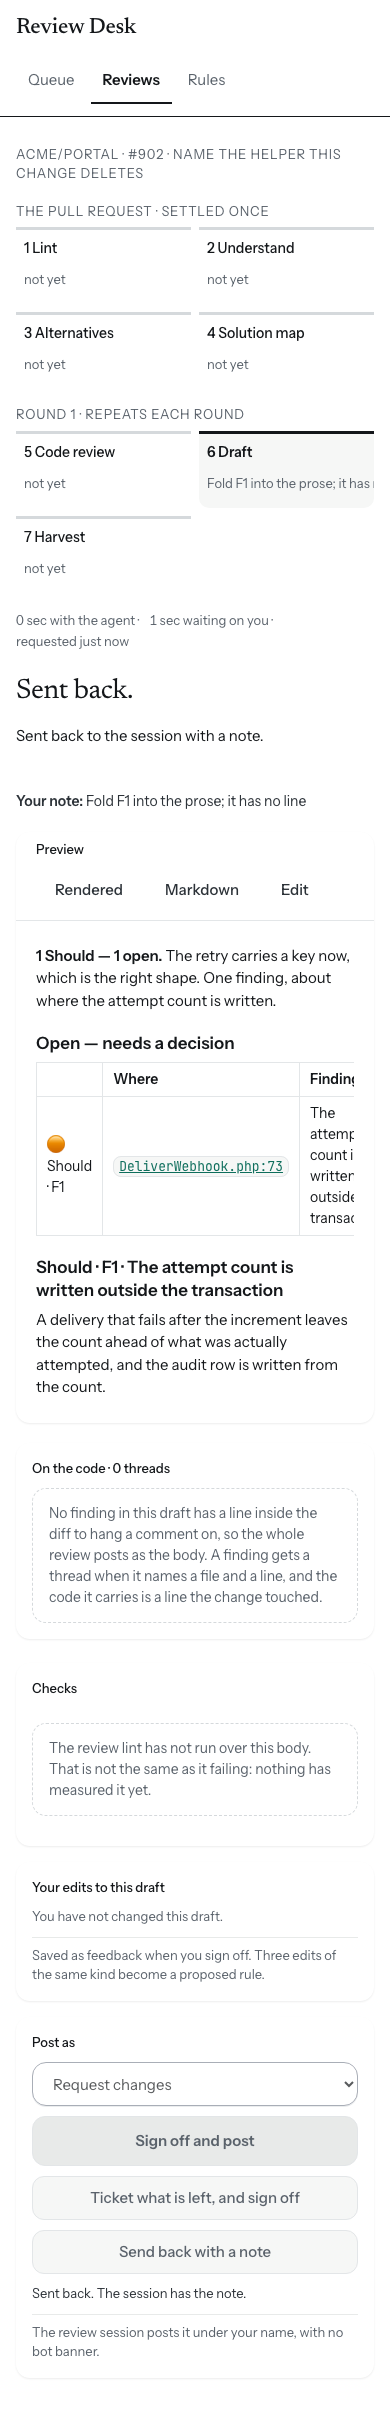
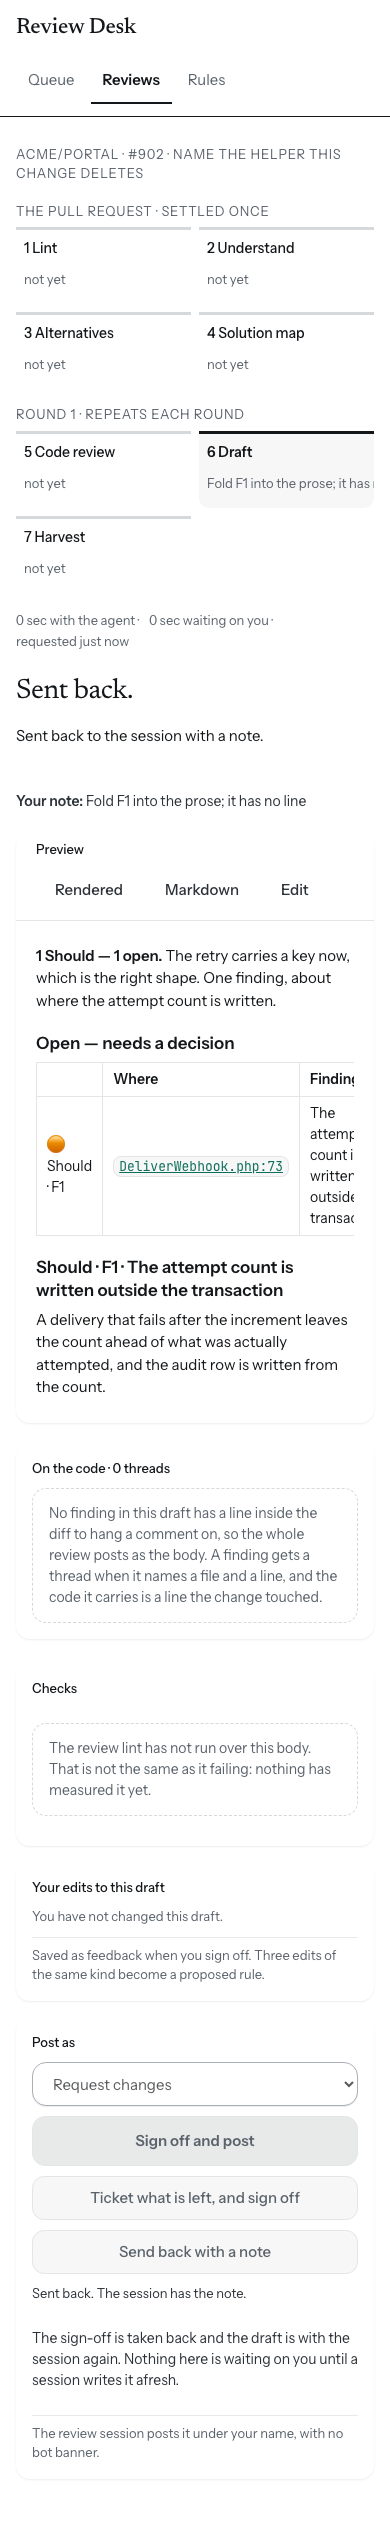
Two from a tenth review, which cleared the root fix [DEV-932]
The pass traced every path on the held conclusion — the navigation, the null
sign-off, the hung read, the write-against-poll orderings — and faulted none
of it. These two are elsewhere.

**The panel claimed to say something only a screen reader was told.** The
component's own state table says that on a take-back it "says the sign-off is
taken back and the draft is with the session", and the sentence lived only in
the hidden region: a sighted reader got an empty panel and the status line's
"Sent back to the session with a note.", which cannot tell a withdrawn
sign-off from an ordinary send-back — the one distinction `watchedTheSignOff`
exists to draw. It is drawn now, and adds what the announcement has no room
for: that nothing is waiting on the developer until a session writes it again.

**And the send-back form was left open over a posted draft.** Guarding its
submit stopped the refusal but not the stranding: a textarea asking what the
session is to change, above a draft already on GitHub, with a dead button and
only Cancel as a way out. It closes with the notice the same watcher clears.

The browser check for that one passed on its first attempt with the fix taken
out — because the line I removed to test it was the identical line inside
`sendBack()`, not the one in the watcher. Removing the right one turned it
red. Three times now a check of mine has been satisfied by something other
than the thing it names, and every one was caught by deliberately breaking it
[…]

diff --git a/web/app/components/PostingWatch.vue b/web/app/components/PostingWatch.vue
@@ -520,6 +520,22 @@ const lateSentence = computed(
  * has to be able to render, and the honest rendering says what the record holds rather
  * than guessing at how it got that way or drawing a link to nowhere.
  */
+/**
+ * What a sighted reader is told when a sign-off is taken back under them.
+ *
+ * **The state table above said the panel "says" this and the panel did not.** The sentence
+ * existed only in the hidden region, so a screen-reader user was told the sign-off had
+ * gone and everyone else got an empty panel and the status line's "Sent back to the
+ * session with a note." — which cannot tell a withdrawn sign-off from an ordinary
+ * send-back, the one distinction `watchedTheSignOff` exists to draw.
+ *
+ * It adds what the announcement cannot fit rather than repeating it: where the draft is
+ * now, and that nothing is waiting on the developer until a session writes it again.
+ */
+const takenBack
+  = 'The sign-off is taken back and the draft is with the session again. Nothing here is '
+    + 'waiting on you until a session writes it afresh.'
+
 const noReviewSentence
   = 'The record holds no GitHub review for this draft, so there is nothing to link to. '
     + 'Nothing this API writes can leave it that way — a session reports the id when it '
@@ -586,6 +602,12 @@ const noAnchorSentence = computed(
         class="rd-note late"
       >
         {{ lateSentence }}
+      </p>
+    </template>
+
+    <template v-else-if="draft.status === 'sent_back' && watchedTheSignOff">
+      <p class="rd-note">
+        {{ takenBack }}
       </p>
     </template>
 

diff --git a/web/e2e/review-desk.spec.ts b/web/e2e/review-desk.spec.ts
@@ -3172,6 +3172,14 @@ test.describe('the draft page after a sign-off', () => {
     })
 
     /*
+     * **With the send-back form open under it**, which is the race the guard on that
+     * form's submit is about: the developer starts typing a note and the session posts
+     * while they type.
+     */
+    await page.getByRole('button', { name: 'Take back the sign-off and send it back' }).click()
+    await page.locator('textarea#send-back-note').fill('Half a note, never sent')
+
+    /*
      * **The review session's own command, with the GitHub review it became.** Review Desk
      * posts nothing: this is the one transition that involves GitHub and the session makes
      * it. A number rather than a node id, because a number is what GitHub builds its own
@@ -3201,6 +3209,13 @@ test.describe('the draft page after a sign-off', () => {
 
     /* The heading and the sentence under it followed, which is the rest of the page. */
     await expect(page.getByRole('heading', { name: 'Posted.' })).toBeVisible()
+
+    /*
+     * And the form closed itself. A textarea asking what the session is to change, over a
+     * draft already on GitHub, with a dead button and only Cancel as a way out, is the
+     * page leaving a question open that the record has answered.
+     */
+    await expect(page.locator('textarea#send-back-note')).toHaveCount(0)
 
     /*
      * **And the sign-off's own notice is gone.** "Signed off. The review session posts it"

diff --git a/web/test/posting-watch.nuxt.spec.ts b/web/test/posting-watch.nuxt.spec.ts
@@ -474,6 +474,14 @@ describe('when the developer takes the sign-off back', () => {
     })
 
     expect(announced(page)).toContain('The sign-off is taken back')
+    /*
+     * **Drawn as well as announced**, because the status line above cannot tell a
+     * withdrawn sign-off from an ordinary send-back and a sighted reader was getting an
+     * empty panel. It adds where the draft is rather than repeating the announcement.
+     */
+    const seen = page.text().replace(page.find('[role="status"]').text(), '')
+    expect(seen).toContain('the draft is with the session again')
+    expect(seen).toContain('waiting on you until a session writes it afresh')
     expect(page.text()).not.toContain('Waiting for this review')
 
     await tick(page, RE_READ_EVERY_SECONDS * 4)
@@ -517,6 +525,8 @@ describe('when the developer takes the sign-off back', () => {
 
     expect(page.text()).toContain('may not be running')
     expect(announced(page)).toBe('')
+    /* Nor drawn: this page did not watch a sign-off on it, so there is none to take back. */
+    expect(page.text()).not.toContain('the draft is with the session again')
   })
 
   it('remembers nothing about another review’s draft', async () => {

diff --git a/web/app/pages/reviews/[id]/draft.vue b/web/app/pages/reviews/[id]/draft.vue
@@ -220,7 +220,15 @@ const recordIsCurrent = computed(
 watch(
   () => detail.data.value?.draft.status,
   (status) => {
-    if (status === 'posted') notice.value = null
+    if (status !== 'posted') return
+    notice.value = null
+    /*
+     * **And the open send-back form goes with it.** Its submit is guarded, so pressing it
+     * does nothing — but a textarea asking "What is the session to change?" over a draft
+     * that is already on GitHub, with a dead button and only Cancel as a way out, is the
+     * page leaving a question open that the record has answered.
+     */
+    sendingBack.value = false
   },
 )
 
